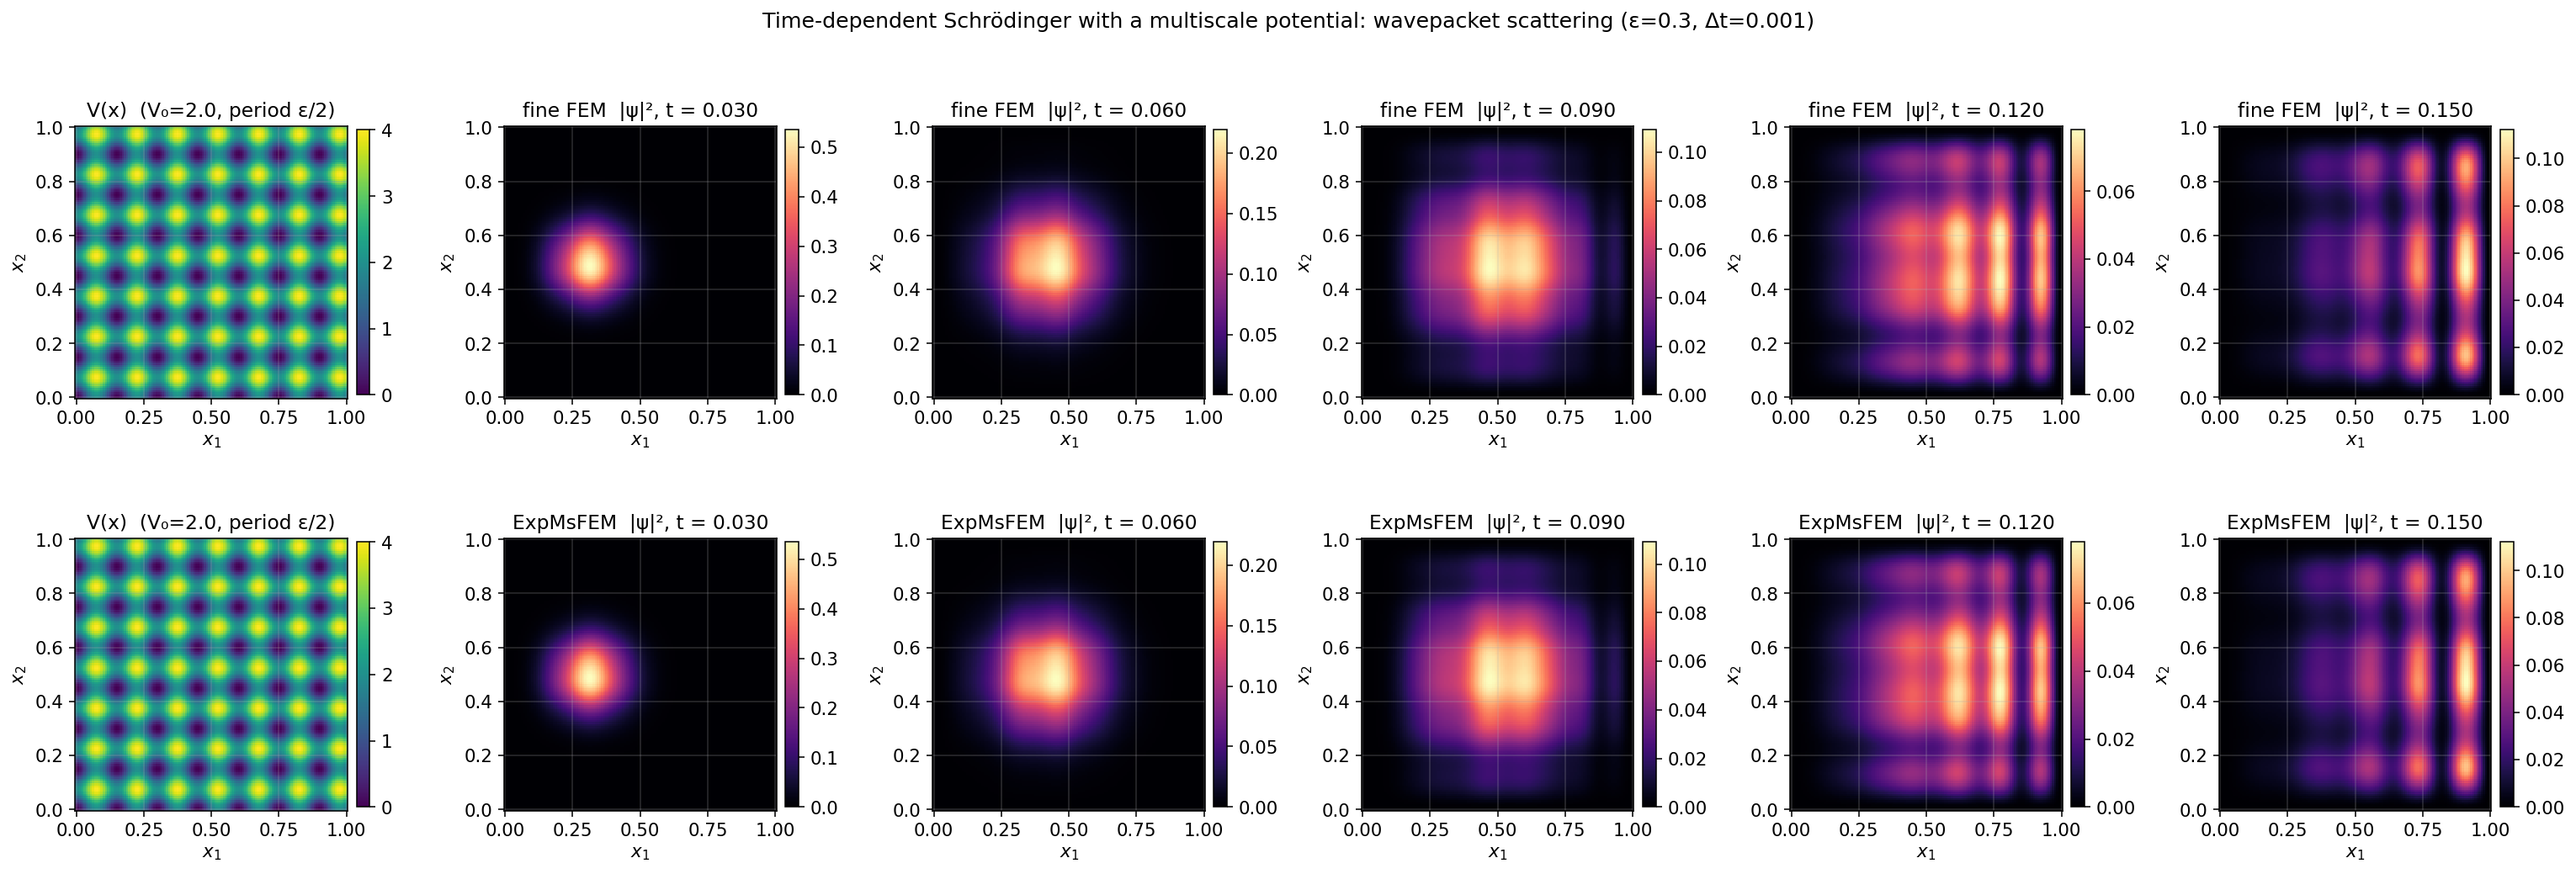
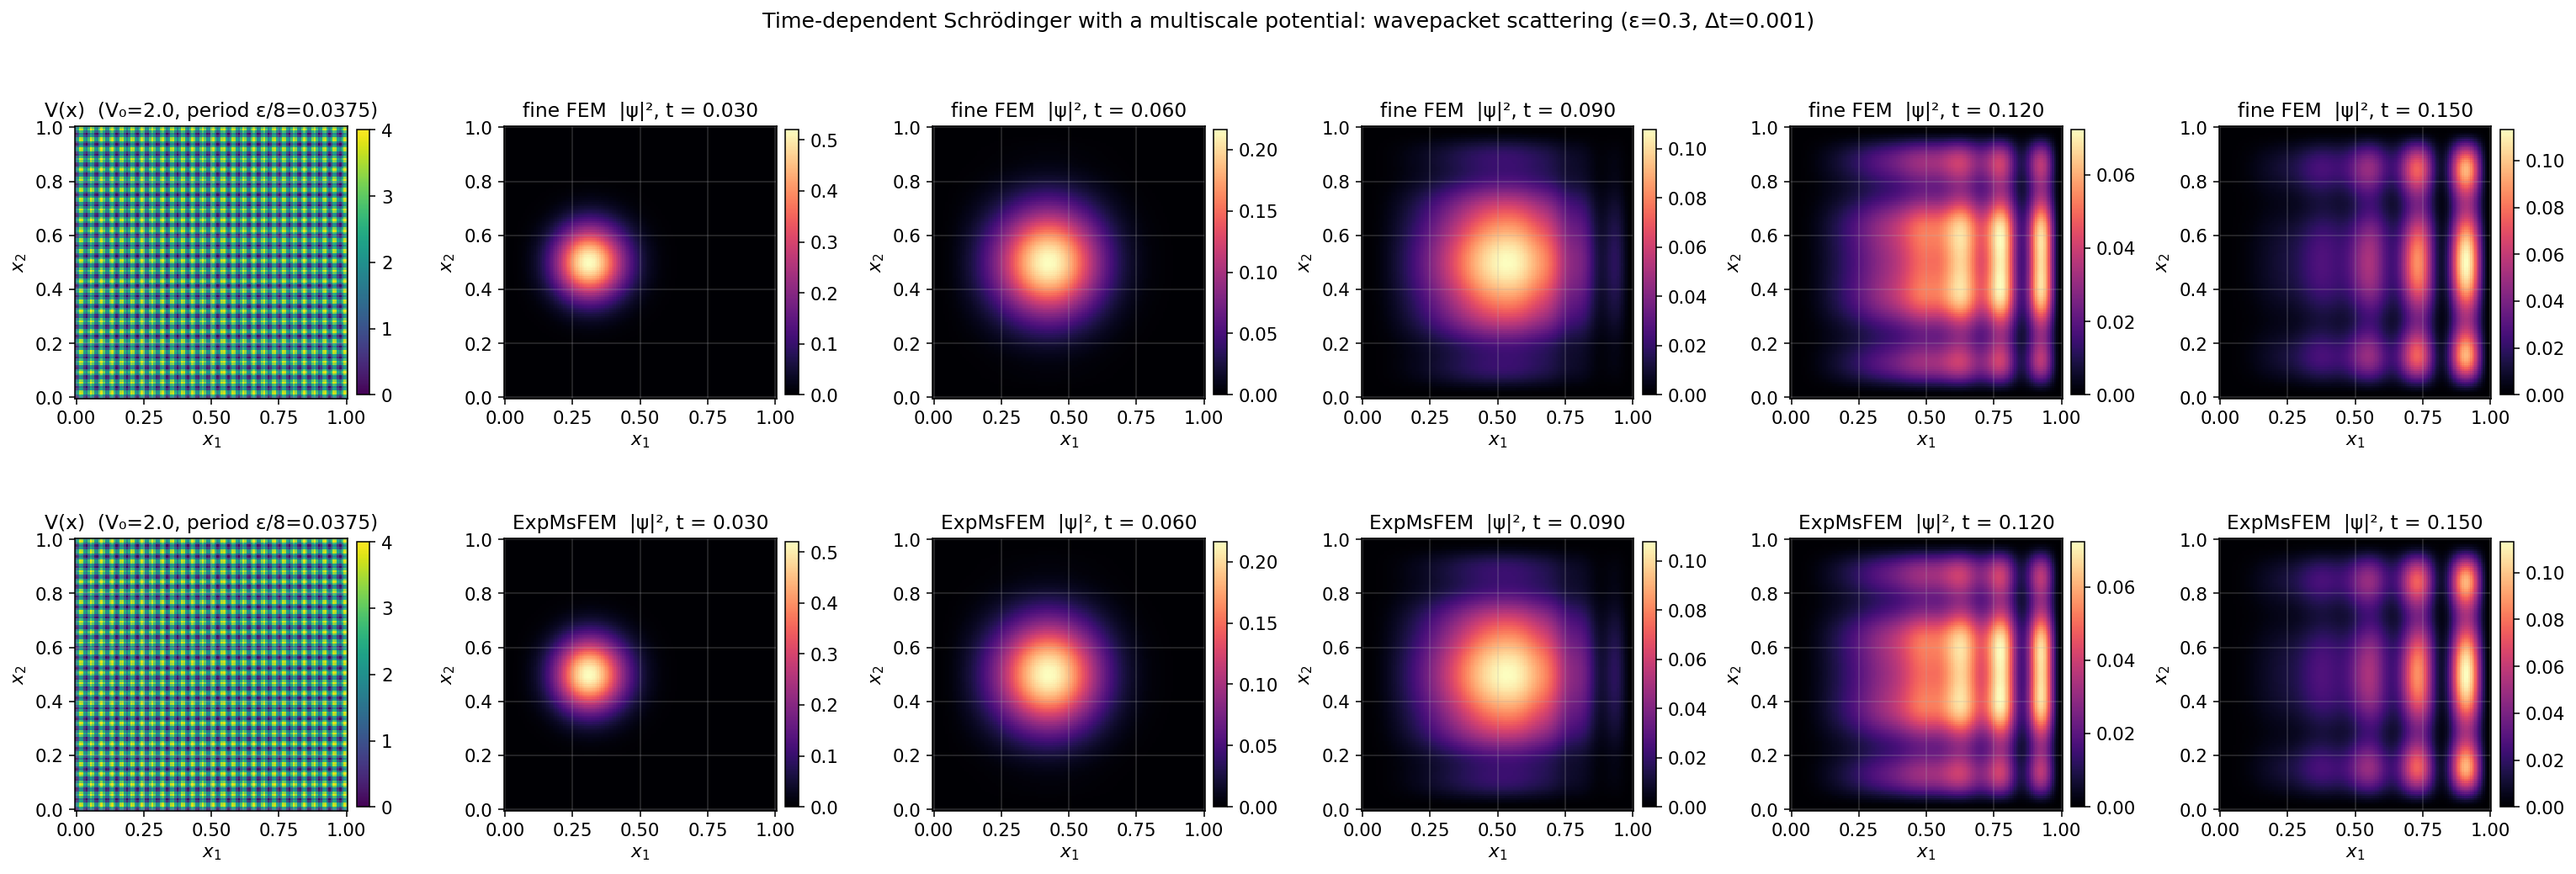
Schrödinger demo: genuinely sub-H multiscale V; fix README claims
- Potential is now V₀·(sin²(π·8·x/ε) + sin²(π·8·y/ε)) with ε=0.3, giving
  period ε/8 = 0.0375 < H = 1/16 = 0.0625 (previous 'smaller than H' claim
  was incorrect — period was 0.15 > H).
- Tune wavepacket to be a travelling scattering state (V₀=2, kₓ=4 so
  KE=8 > V_max=4); packet now visibly propagates across the domain over
  150 steps.
- README section 11 updated to match: corrected formula, period, and
  wording.
- README section 4 (method comparison): correct H+bubble claim —
  empirically exponential, no proof yet (not 'algebraic rate').

diff --git a/demos/demo_11_wavepacket.py b/demos/demo_11_wavepacket.py
@@ -42,11 +42,13 @@ def main():
     eps = 0.3
     dt = 1e-3
 
-    # Multiscale periodic "crystal" potential — oscillates at scale ε/kₓ_V = 0.15.
-    # V0 is small compared to the wavepacket's kinetic energy kx²/2 = 8 below,
-    # so the wavepacket is a *travelling* scattering state, not a bound one.
+    # Genuinely multiscale periodic "crystal" potential: V oscillates at period
+    # ε/k_V = 0.3 / 8 = 0.0375, strictly below the coarse mesh size
+    # H = 1/N_c = 1/16 ≈ 0.0625 used by ExpMsFEM.  V0 is small compared to the
+    # wavepacket's kinetic energy kₓ²/2 = 8 below, so the wavepacket is a
+    # *travelling* scattering state, not a bound one.
     V0 = 2.0
-    kx_V, ky_V = 2.0, 2.0
+    kx_V, ky_V = 8.0, 8.0
     V = lambda x, y: V0 * (np.sin(np.pi * kx_V * x / eps) ** 2
                            + np.sin(np.pi * ky_V * y / eps) ** 2)
 
@@ -93,7 +95,7 @@ def main():
     for row in range(2):
         ax = axes[row, 0]
         im = ax.pcolormesh(X, Y, V_grid, cmap="viridis", shading="auto")
-        ax.set_title(f"V(x)  (V₀={V0}, period ε/2)")
+        ax.set_title(f"V(x)  (V₀={V0}, period ε/{int(kx_V)}={eps/kx_V:.4f})")
         plt.colorbar(im, ax=ax, fraction=0.045, pad=0.03)
         ax.set_aspect("equal")
         ax.set_xlabel("$x_1$")

diff --git a/README.md b/README.md
@@ -166,11 +166,11 @@ which fits the classical ExpMsFEM framework exactly. The complex-symmetric shift
 
 The demo below solves this problem with a **periodic "crystal" potential**
 
-`V(x, y) = 2 · ( sin²(π · 2 · x / ε) + sin²(π · 2 · y / ε) )`
+`V(x, y) = 2 · ( sin²(π · 8 · x / ε) + sin²(π · 8 · y / ε) )`
 
-that oscillates at scale `ε / 2 = 0.15` — **smaller** than the coarse mesh `H = 1/16 ≈ 0.0625` used by ExpMsFEM. A Gaussian wavepacket is launched from the left at `x₀ = 0.2, y₀ = 0.5` with momentum `kₓ = 4` along `+x` (kinetic energy `kₓ² / 2 = 8`, well above the potential maximum `V_max = 4`), so the packet *travels* across the lattice while diffracting off the periodic structure.
+that oscillates at period `ε / 8 = 0.0375` — **genuinely below** the coarse mesh `H = 1/16 = 0.0625` used by ExpMsFEM (roughly 1.67 crystal periods per coarse cell). A Gaussian wavepacket is launched from `x₀ = 0.2, y₀ = 0.5` with momentum `kₓ = 4` along `+x` (kinetic energy `kₓ² / 2 = 8`, well above the potential maximum `V_max = 4`), so the packet *travels* across the lattice while diffracting off the sub-mesh periodic structure.
 
-Left column of the figure: `V(x)` (the multiscale crystal). Columns 2–6: `|ψ(t, x)|²` at five evenly-spaced snapshot times from `t = 0.03` to `t = 0.15`. Top row is the fine-FEM reference, bottom row is the ExpMsFEM reconstruction on `N_c = 16, N_f = 8, N_e = 3`. The packet clearly propagates to the right and spreads into a diffraction-like envelope. Relative L² error stays `~2·10⁻⁴` across the whole run, even though the coarse mesh does not resolve the crystal oscillations.
+Left column of the figure: `V(x)` (the multiscale crystal). Columns 2–6: `|ψ(t, x)|²` at five evenly-spaced snapshot times from `t = 0.03` to `t = 0.15`. Top row is the fine-FEM reference, bottom row is the ExpMsFEM reconstruction on `N_c = 16, N_f = 8, N_e = 3`. The packet clearly propagates to the right and spreads into a diffraction-like envelope. Relative L² error stays `~2·10⁻⁴` across the whole run, even though the coarse mesh by itself cannot resolve the crystal oscillations — the edge eigen-basis picks up the sub-`H` structure via the shifted cell operator.
 
 ![wavepacket](figures/wavepacket.png)
 
@@ -179,10 +179,10 @@ import numpy as np
 from expmsfem.schrodinger.time_dep import SemiclassicalParam, run_expmsfem_schrodinger
 
 eps, dt = 0.3, 1e-3
-# Multiscale potential — oscillates at scale ε/2 = 0.15, smaller than H = 1/16.
-V0 = 2.0
-V = lambda x, y: V0 * (np.sin(np.pi * 2.0 * x / eps) ** 2
-                       + np.sin(np.pi * 2.0 * y / eps) ** 2)
+# Multiscale potential — oscillates at period ε/8 = 0.0375, smaller than H = 1/16.
+V0, k_V = 2.0, 8.0
+V = lambda x, y: V0 * (np.sin(np.pi * k_V * x / eps) ** 2
+                       + np.sin(np.pi * k_V * y / eps) ** 2)
 
 N_c, N_f = 16, 8
 xs = np.linspace(0, 1, N_c * N_f + 1)
